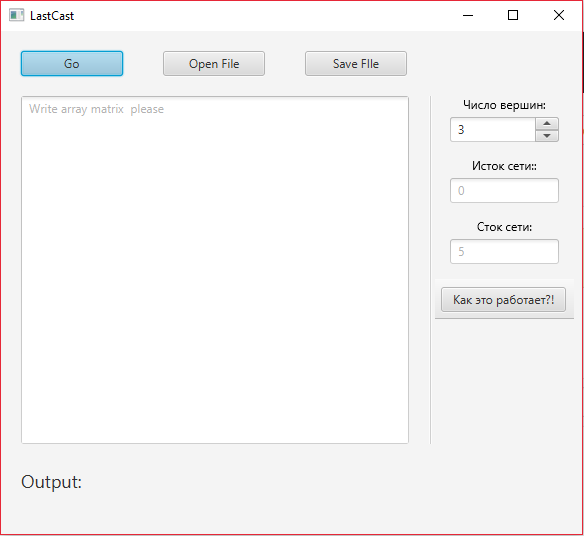
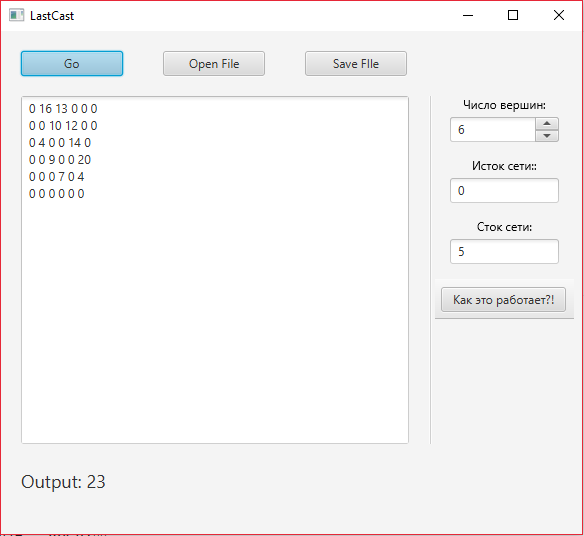
delete README.txt, modified README.md, rename kursov2.iml

diff --git a/README.md b/README.md
@@ -1,0 +1,21 @@
+Algorithm of Ford Falkerson with javaFX 
+===
+## Example GUI
+
+
+![](/screenshots/screen1.PNG "sceenshot")
+
+## Test 
+
+#### Input network: 0 <br/> 
+#### Output network: 5 <br/> 
+
+
+**0 16 13 0 0 0** <br/> 
+**0 0 10 12 0 0** <br/> 
+**0 4 0 0 14 0** <br/> 
+**0 0 9 0 0 20** <br/> 
+**0 0 0 7 0 4** <br/> 
+**0 0 0 0 0 0** <br/> 
+<br/> 
+**Output: 23** 
